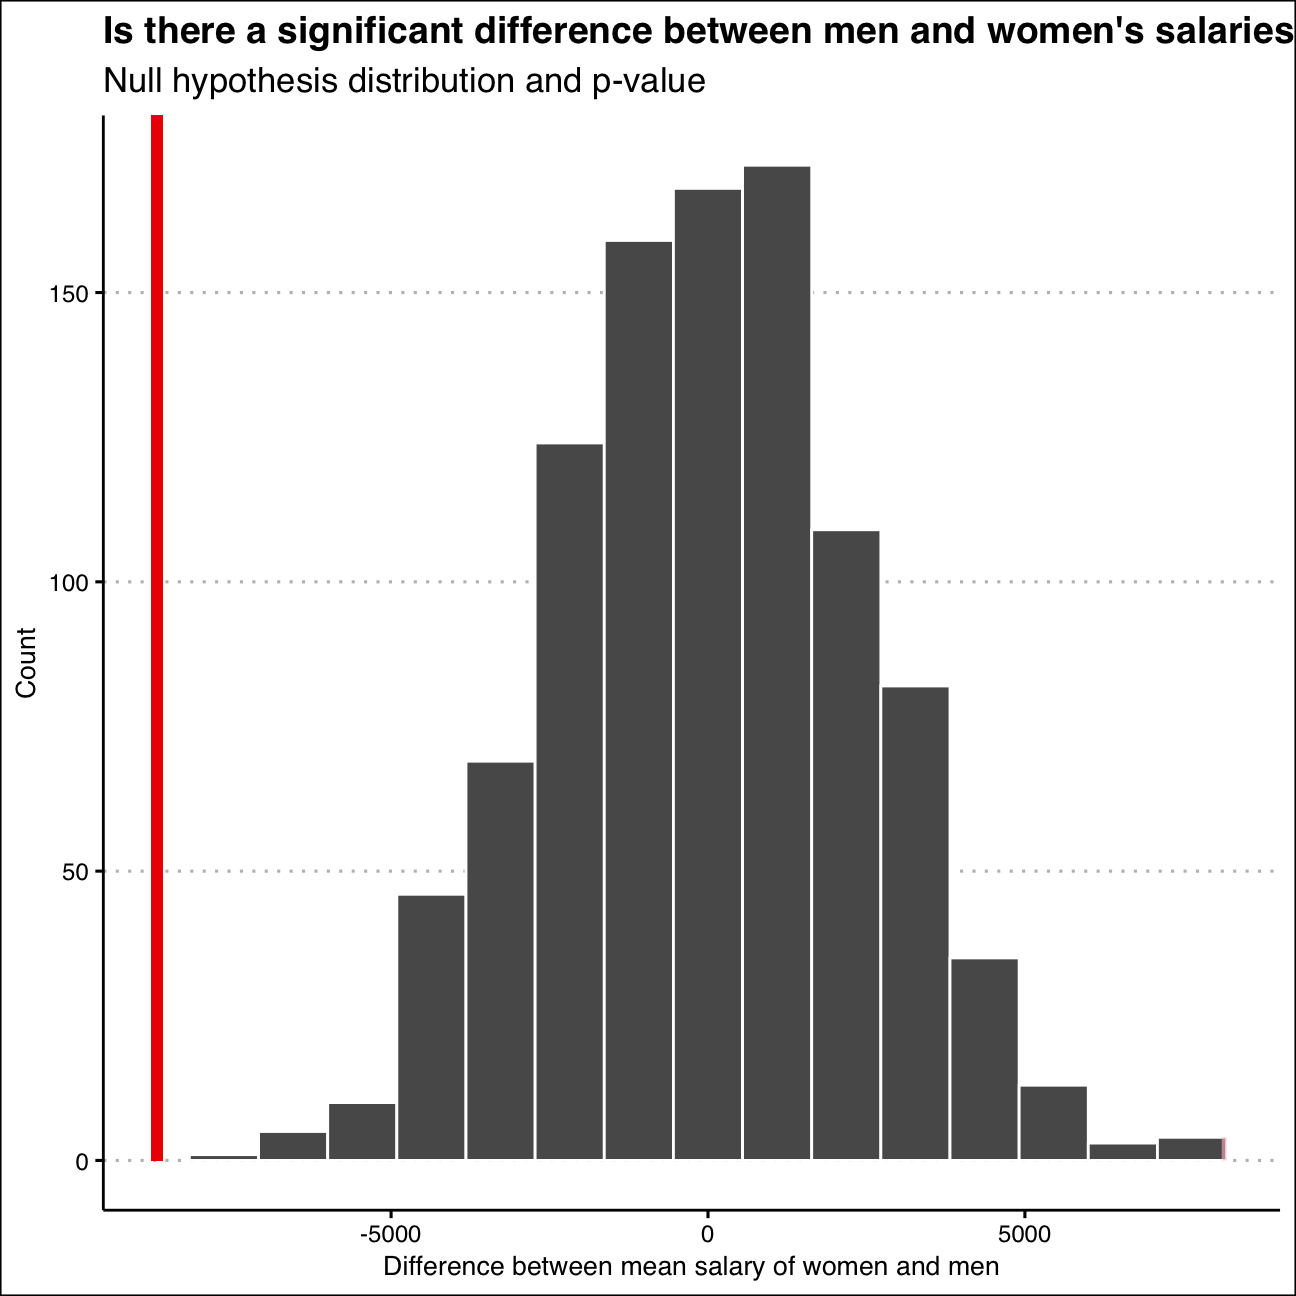
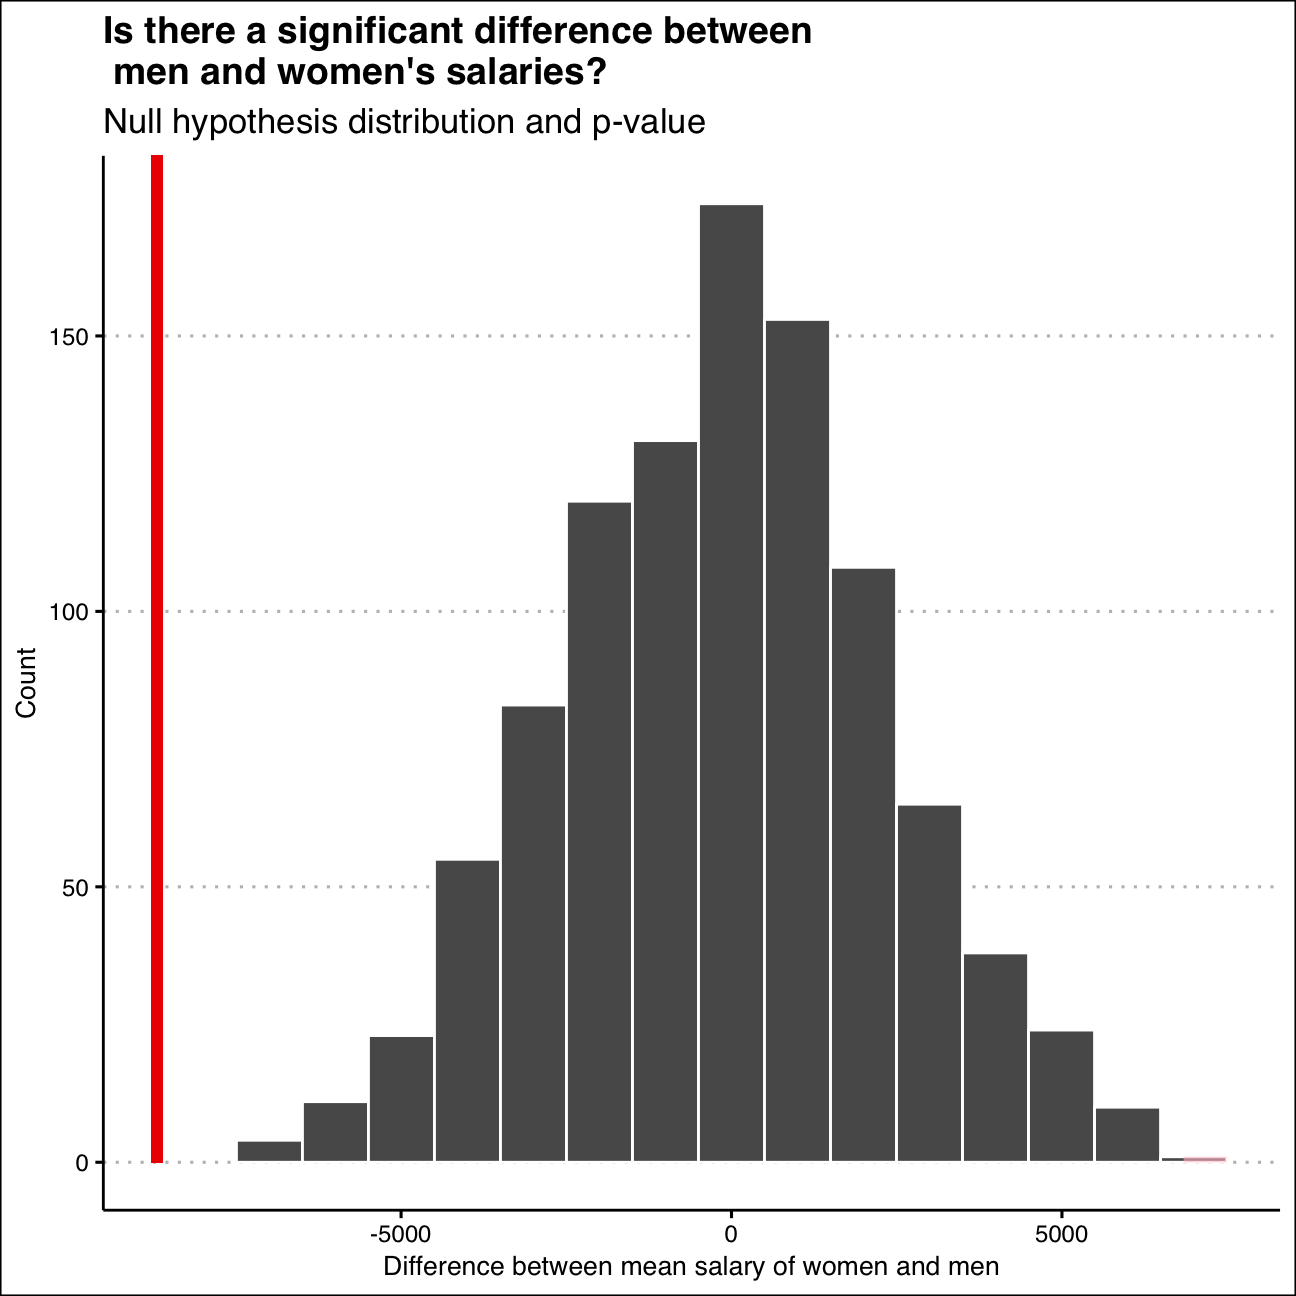
Modified some images

diff --git a/content/blogs/blog6.html b/content/blogs/blog6.html
@@ -14,7 +14,7 @@ title: Salaries
 
 
 <div id="omega-group-plc--pay-discrimination" class="section level1">
-<h1>Omega Group plc- Pay Discrimination</h1>
+<h1>Omega Group plc- Pay Discrimination ??</h1>
 <p>At the last board meeting of Omega Group Plc., the headquarters of a large multinational company, the issue was raised that women were being discriminated in the company, in the sense that the salaries were not the same for male and female executives. A quick analysis of a sample of 50 employees (of which 24 men and 26 women) revealed that the average salary for men was about 8,700 higher than for women. This seemed like a considerable difference, so it was decided that a further analysis of the company salaries should be conducted.</p>
 <p>Our team carried out the analysis to find out whether there is indeed a significant difference between the salaries of men and women, and whether the difference is due to discrimination or whether it is based on another, possibly valid, determining factor.</p>
 <div id="loading-the-data" class="section level2">
@@ -94,7 +94,7 @@ salaries_null_world&lt;-omega%&gt;%
 salaries_null_world %&gt;% visualize() +
   shade_p_value(obs_stat = init_sal_null, direction = &quot;two-sided&quot;)+
   #Customize the plot
-  labs(x=&quot;Difference between mean salary of women and men&quot;,y=&quot;Count&quot;,title=&quot;Is there a significant difference between men and women&#39;s salaries?&quot;,subtitle=&quot;Null hypothesis distribution and p-value&quot;)+
+  labs(x=&quot;Difference between mean salary of women and men&quot;,y=&quot;Count&quot;,title=&quot;Is there a significant difference between \n men and women&#39;s salaries?&quot;,subtitle=&quot;Null hypothesis distribution and p-value&quot;)+
   theme_clean()</code></pre>
 <p><img src="/blogs/blog6_files/figure-html/hypothesis_testing_salary_gender-1.png" width="648" style="display: block; margin: auto;" /></p>
 <pre class="r"><code>#Get the numerical value for p
@@ -158,7 +158,7 @@ experience_null_world &lt;- omega %&gt;%
 experience_null_world %&gt;% visualize() +
   shade_p_value(obs_stat = init_exp_null, direction = &quot;two-sided&quot;)+
   #Customize the plot
-  labs(x=&quot;Difference between mean experience of women and men&quot;,y=&quot;Count&quot;,title=&quot;Is there a significant difference between men and women&#39;s experience?&quot;,subtitle=&quot;Null hypothesis distribution and p-value&quot;)+theme_clean()</code></pre>
+  labs(x=&quot;Difference between mean experience of women and men&quot;,y=&quot;Count&quot;,title=&quot;Is there a significant difference between \n men and women&#39;s experience?&quot;,subtitle=&quot;Null hypothesis distribution and p-value&quot;)+theme_clean()</code></pre>
 <p><img src="/blogs/blog6_files/figure-html/hypothesis_testing_experience-1.png" width="648" style="display: block; margin: auto;" /></p>
 <pre class="r"><code>#Get the numerical p value
 experience_null_world %&gt;% get_p_value(obs_stat = init_exp_null, direction = &quot;two_sided&quot;)</code></pre>

diff --git a/public/blogs/blog6/index.html b/public/blogs/blog6/index.html
@@ -80,7 +80,7 @@
 
 
 <div id="omega-group-plc--pay-discrimination" class="section level1">
-<h1>Omega Group plc- Pay Discrimination</h1>
+<h1>Omega Group plc- Pay Discrimination ??</h1>
 <p>At the last board meeting of Omega Group Plc., the headquarters of a large multinational company, the issue was raised that women were being discriminated in the company, in the sense that the salaries were not the same for male and female executives. A quick analysis of a sample of 50 employees (of which 24 men and 26 women) revealed that the average salary for men was about 8,700 higher than for women. This seemed like a considerable difference, so it was decided that a further analysis of the company salaries should be conducted.</p>
 <p>Our team carried out the analysis to find out whether there is indeed a significant difference between the salaries of men and women, and whether the difference is due to discrimination or whether it is based on another, possibly valid, determining factor.</p>
 <div id="loading-the-data" class="section level2">
@@ -160,7 +160,7 @@ salaries_null_world&lt;-omega%&gt;%
 salaries_null_world %&gt;% visualize() +
   shade_p_value(obs_stat = init_sal_null, direction = &quot;two-sided&quot;)+
   #Customize the plot
-  labs(x=&quot;Difference between mean salary of women and men&quot;,y=&quot;Count&quot;,title=&quot;Is there a significant difference between men and women&#39;s salaries?&quot;,subtitle=&quot;Null hypothesis distribution and p-value&quot;)+
+  labs(x=&quot;Difference between mean salary of women and men&quot;,y=&quot;Count&quot;,title=&quot;Is there a significant difference between \n men and women&#39;s salaries?&quot;,subtitle=&quot;Null hypothesis distribution and p-value&quot;)+
   theme_clean()</code></pre>
 <p><img src="/blogs/blog6_files/figure-html/hypothesis_testing_salary_gender-1.png" width="648" style="display: block; margin: auto;" /></p>
 <pre class="r"><code>#Get the numerical value for p
@@ -224,7 +224,7 @@ experience_null_world &lt;- omega %&gt;%
 experience_null_world %&gt;% visualize() +
   shade_p_value(obs_stat = init_exp_null, direction = &quot;two-sided&quot;)+
   #Customize the plot
-  labs(x=&quot;Difference between mean experience of women and men&quot;,y=&quot;Count&quot;,title=&quot;Is there a significant difference between men and women&#39;s experience?&quot;,subtitle=&quot;Null hypothesis distribution and p-value&quot;)+theme_clean()</code></pre>
+  labs(x=&quot;Difference between mean experience of women and men&quot;,y=&quot;Count&quot;,title=&quot;Is there a significant difference between \n men and women&#39;s experience?&quot;,subtitle=&quot;Null hypothesis distribution and p-value&quot;)+theme_clean()</code></pre>
 <p><img src="/blogs/blog6_files/figure-html/hypothesis_testing_experience-1.png" width="648" style="display: block; margin: auto;" /></p>
 <pre class="r"><code>#Get the numerical p value
 experience_null_world %&gt;% get_p_value(obs_stat = init_exp_null, direction = &quot;two_sided&quot;)</code></pre>
